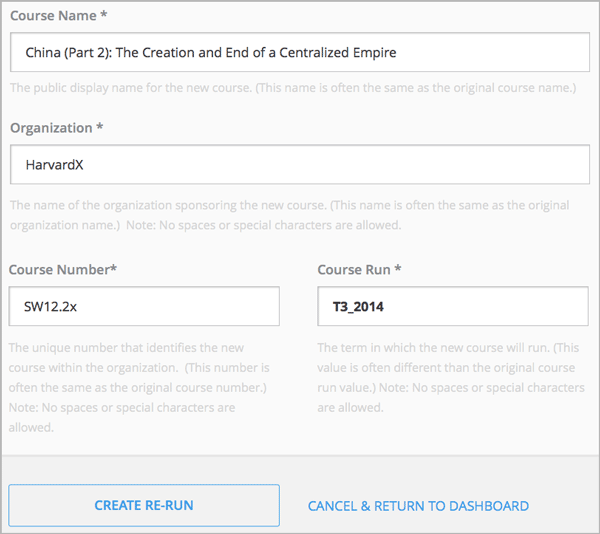
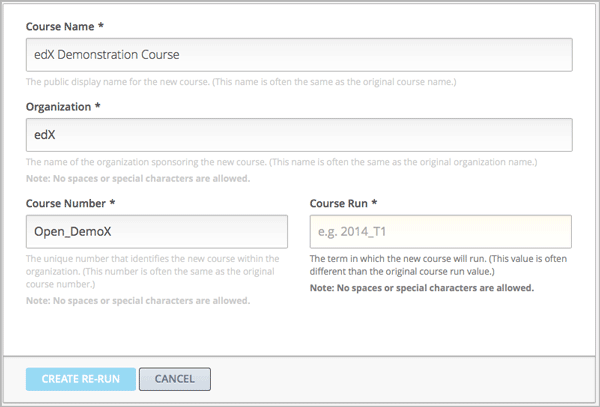
Updated reruns with actual screen shots

Changed region(s): [[0.0, 0.0, 1.0, 1.0], [0.51, 0.4717, 0.96, 0.7961]]

diff --git a/docs/en_us/course_authors/source/building_course/course_rerun.rst b/docs/en_us/course_authors/source/building_course/course_rerun.rst
@@ -18,8 +18,9 @@ any way.
    * - Course start date
      - No. Set to midnight on January 1, 2030 (UTC).
    * - All other course dates
-     - Yes. You will need to update all release dates and due dates. 
-   * - Course outline structure (sections, subsections, units) and state (published, hidden from students)
+     - Yes. You will need to update all release dates and due dates.
+   * - Course structure (sections, subsections, units) and state (published,
+       hidden)
      - Yes. 
    * - Individual problems and other components
      - Yes.
@@ -35,7 +36,8 @@ any way.
      - Yes.
    * - Student enrollment data
      - No.
-   * - Course team privileges, including admins, discussion moderators, and beta testers
+   * - Course team privileges, including admins, discussion moderators, beta
+       testers
      - No. Only your own role (as a course admin and instructor) is defined.
    * - Student answers, progress, and grading data
      - No.
@@ -57,48 +59,52 @@ Use Re-Run to Create a Course
 
 Before you re-run a course:
 
-* For a course that is on the `edge.edx.org`_ site, verify that you have
+* For a course that is hosted on the `edge.edx.org`_ site, verify that you have
   permission to create courses in Studio. See :ref:`Use Studio on Edge`.
 
-  For a course that is on the `edx.org`_ site, contact your Program Manager.
-  Your Program Manager actually creates the new course using the re-run
-  feature, and then works with you to complete the steps to :ref:`update the
-  new course<Update the New Course>`.
+  For a course that is hosted on the `edx.org`_ site, contact your Program
+  Manager. Your Program Manager will create the new course using the re- run
+  feature, and then work with you to complete the steps to :ref:`update the new
+  course<Update the New Course>`.
 
 * Verify that you are a member of the course staff for the course that you want
   to re-run.
 
-* Verify that the original course was created in Studio, not in XML.
+* Verify that the course that you want to re-run was created in edX Studio, and
+  was not created in XML.
 
 To re-run a course:
 
 #. Log in to Studio. Your dashboard lists the courses that you have access to
-   as a staff memeber.
+   as a staff member.
 
 #. Move your cursor over each row in the list of courses. The **Re-Run Course**
    and **View Live** options appear for each course.
 
-#. Locate the course you want to re-run and click **Re-Run Course**.
+  .. image:: ../Images/Rerun_link.png
+     :alt: A course liste don the dashboard with the Re-run Course and View 
+           Live options shown 
+
+3. Locate the course you want to re-run and click **Re-Run Course**. The
+   **Create a re-run of a course** page opens with values already supplied in
+   the **Course Name**, **Organization**, and **Course Number** fields.
 
   .. image:: ../Images/rerun_course_info.png
-     :alt: The course creation page for a rerun, with the course name, organization, and course number supplied
+     :alt: The course creation page for a rerun, with the course name, 
+           organization, and course number supplied
 
-.. this image ^ is from the wireframe and needs to be replaced     
+4. Supply a **Course Run** timeframe for the new course. Together, the course
+   number, the organization, and the course run are used to create the URL for
+   the new course. The combination of these three values must be unique for the
+   new course.
 
-4. Supply a **Course Run** timeframe for the new course. The course number, the
-   organization, and the course run are used to create the URL for the new
-   course. The combination of these three values must be unique for the new
-   course.
+#. Click **Create Re-Run**. Your **My Courses** dashboard opens with a status
+   message about the course creation process.
 
-.. any of the 4 values can be changed, but we are not currently supporting
-.. cross-organization use such as licensing
-
-5. Click **Create Re-Run**. The duplication process takes several minutes. You
+   Duplication of the course structure and content takes several minutes. You
    can work in other parts of Studio or in the LMS, or on other web sites,
-   while the process runs.
-
-  The new course appears on your **My Courses** dashboard in Studio when
-  configuration is complete.
+   while the process runs. The new course appears on your **My Courses**
+   dashboard in Studio when configuration is complete.
 
 .. _Update the New Course:
 
@@ -107,10 +113,16 @@ Update the New Course
 ********************************************
 
 When you create a course by re-running another course, you should carefully
-review the course settings and content. At a minimum, you will need to make
-these changes to prepare the new course for release:
+review the settings and content of the new course. To assure a quality
+experience for students, be sure to test the course thoroughly before the
+course start date. See :ref:`Testing Your Course` and
+:ref:`Beta_Testing`.
 
-* Add course staff members. See :ref:`Add Course Team Members` or
+At a minimum, you will need to make these changes to prepare the new course for
+release:
+
+* Add course staff members, including discussion admins, moderators, and
+  community TAs. See :ref:`Add Course Team Members` or
   :ref:`Course_Staffing`.
   
 * Update course-wide dates, including course and enrollment start and end
@@ -134,12 +146,10 @@ these changes to prepare the new course for release:
   post. See :ref:`Discussions`.
   
 You can use the :ref:`course checklists<Use the Course Checklist>` to work
-through the course and verify that it is ready for release.
-
-To assure a quality experience for course students, be sure to test a course
-created with the re-run option thoroughly before the course start date.
-See :ref:`Testing Your Course` and :ref:`Beta_Testing`.
+through the course and verify that it is ready for release. You can also refer
+to the :ref:`Launch` chapter for tools and ideas that help you prepare the
+course for launch.
 
 
-.. _edg.edx.org: http://edge.edx.org
+.. _edge.edx.org: http://edge.edx.org
 .. _edx.org: http://edx.org
